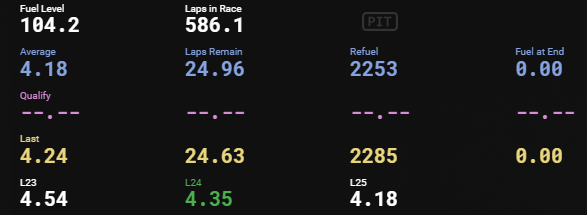
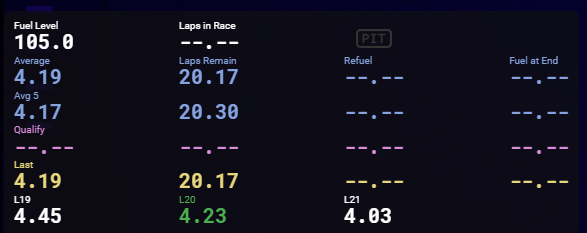
Add Avg 5 row to Fuel Calculator
Simple (non-trimmed) average of fuel usage over the last 5 laps, shown
next to the built-in "Average" row and toggled via a new "Avg 5"
checkbox placed above "Target Laps" in settings.

diff --git a/kapps-country-flags-patch.js b/kapps-country-flags-patch.js
@@ -474,11 +474,72 @@ function patchFuelCalcJs(src) {
     '$scope.showLast=config.showLast,$scope.showTargetLaps=config.showTargetLaps,$scope.showCustom=config.showCustom',
     'fuel-calc.js AppCtrl showTargetLaps scope copy'
   );
+
+  // "Avg 5" row: a SIMPLE (non-trimmed) mean of the last 5 laps, matching irdashies'
+  // calculateSimpleAverage — distinct from Kapps' own "Average" row, which drops the best
+  // and worst lap before averaging. Reuses the SAME rolling 5-lap `fuels` array Kapps already
+  // maintains for that trimmed mean, so no new state tracking is needed — just a second,
+  // simpler reduction over the same data, computed right alongside the existing usageAvg calc.
+  src = mustReplace(
+    src,
+    'fuels.length&&((f=fuels.slice()).length>=3&&(f=f.sort().slice(1,-1)),total=f.reduce((function(a,b){return a+b})),scope.usageAvg=total/f.length)',
+    'fuels.length&&(scope.usageAvg5=fuels.reduce((function(a,b){return a+b}),0)/fuels.length,(f=fuels.slice()).length>=3&&(f=f.sort().slice(1,-1)),total=f.reduce((function(a,b){return a+b})),scope.usageAvg=total/f.length)',
+    'fuel-calc.js usageAvg5 computation'
+  );
+  src = mustReplace(
+    src,
+    'null!=scope.usageQualy&&(scope.remainQualy=curFuelLevel/scope.usageQualy),null!=scope.usageLast&&(scope.remainLast=curFuelLevel/scope.usageLast)',
+    'null!=scope.usageQualy&&(scope.remainQualy=curFuelLevel/scope.usageQualy),null!=scope.usageAvg5&&(scope.remainAvg5=curFuelLevel/scope.usageAvg5),null!=scope.usageLast&&(scope.remainLast=curFuelLevel/scope.usageLast)',
+    'fuel-calc.js remainAvg5 computation'
+  );
+  src = mustReplace(
+    src,
+    'null!=scope.usageQualy&&(scope.refuelQualy=(lapsLeft-scope.remainQualy)*scope.usageQualy,scope.refuelQualy>=1&&(scope.refuelQualy+=.5)),null!=scope.usageLast&&(scope.refuelLast=(lapsLeft-scope.remainLast)*scope.usageLast,scope.refuelLast>=1&&(scope.refuelLast+=.5))',
+    'null!=scope.usageQualy&&(scope.refuelQualy=(lapsLeft-scope.remainQualy)*scope.usageQualy,scope.refuelQualy>=1&&(scope.refuelQualy+=.5)),null!=scope.usageAvg5&&(scope.refuelAvg5=(lapsLeft-scope.remainAvg5)*scope.usageAvg5,scope.refuelAvg5>=1&&(scope.refuelAvg5+=.5)),null!=scope.usageLast&&(scope.refuelLast=(lapsLeft-scope.remainLast)*scope.usageLast,scope.refuelLast>=1&&(scope.refuelLast+=.5))',
+    'fuel-calc.js refuelAvg5 computation'
+  );
+  src = mustReplace(
+    src,
+    'case 0:if(null!=scope.usageAvg&&(scope.extraAvg=scope.refuelAvg-scope.usageAvg),null!=scope.usageQualy&&(scope.extraQualy=scope.refuelQualy-scope.usageQualy),null!=scope.usageLast&&(scope.extraLast=scope.refuelLast-scope.usageLast)',
+    'case 0:if(null!=scope.usageAvg&&(scope.extraAvg=scope.refuelAvg-scope.usageAvg),null!=scope.usageQualy&&(scope.extraQualy=scope.refuelQualy-scope.usageQualy),null!=scope.usageAvg5&&(scope.extraAvg5=scope.refuelAvg5-scope.usageAvg5),null!=scope.usageLast&&(scope.extraLast=scope.refuelLast-scope.usageLast)',
+    'fuel-calc.js extraAvg5 case 0'
+  );
+  src = mustReplace(
+    src,
+    'case 1:if(null!=scope.usageAvg&&(scope.extraAvg=scope.refuelAvg+scope.usageAvg),null!=scope.usageQualy&&(scope.extraQualy=scope.refuelQualy+scope.usageQualy),null!=scope.usageLast&&(scope.extraLast=scope.refuelLast+scope.usageLast)',
+    'case 1:if(null!=scope.usageAvg&&(scope.extraAvg=scope.refuelAvg+scope.usageAvg),null!=scope.usageQualy&&(scope.extraQualy=scope.refuelQualy+scope.usageQualy),null!=scope.usageAvg5&&(scope.extraAvg5=scope.refuelAvg5+scope.usageAvg5),null!=scope.usageLast&&(scope.extraLast=scope.refuelLast+scope.usageLast)',
+    'fuel-calc.js extraAvg5 case 1'
+  );
+  src = mustReplace(
+    src,
+    'null!=scope.usageAvg&&(scope.extraAvg=(scope.remainAvg-lapsLeft)*scope.usageAvg,scope.extraAvg>=-2&&(fuelOnPit=0),scope.extraAvg=Math.max(0,scope.extraAvg+fuelOnPit)),null!=scope.usageQualy&&(scope.extraQualy=Math.max(0,(scope.remainQualy-lapsLeft)*scope.usageQualy+fuelOnPit)),null!=scope.usageLast&&(scope.extraLast=Math.max(0,(scope.remainLast-lapsLeft)*scope.usageLast+fuelOnPit))',
+    'null!=scope.usageAvg&&(scope.extraAvg=(scope.remainAvg-lapsLeft)*scope.usageAvg,scope.extraAvg>=-2&&(fuelOnPit=0),scope.extraAvg=Math.max(0,scope.extraAvg+fuelOnPit)),null!=scope.usageQualy&&(scope.extraQualy=Math.max(0,(scope.remainQualy-lapsLeft)*scope.usageQualy+fuelOnPit)),null!=scope.usageAvg5&&(scope.extraAvg5=Math.max(0,(scope.remainAvg5-lapsLeft)*scope.usageAvg5+fuelOnPit)),null!=scope.usageLast&&(scope.extraLast=Math.max(0,(scope.remainLast-lapsLeft)*scope.usageLast+fuelOnPit))',
+    'fuel-calc.js extraAvg5 case 2'
+  );
+  src = mustReplace(
+    src,
+    'usageAvg:null,usageQualy:null,usageLast:null,usageCustom:null,remainAvg:null,remainQualy:null,remainLast:null,remainCustom:null,refuelAvg:null,refuelQualy:null,refuelLast:null,refuelCustom:null',
+    'usageAvg:null,usageQualy:null,usageAvg5:null,usageLast:null,usageCustom:null,remainAvg:null,remainQualy:null,remainAvg5:null,remainLast:null,remainCustom:null,refuelAvg:null,refuelQualy:null,refuelAvg5:null,refuelLast:null,refuelCustom:null',
+    'fuel-calc.js dataEmpty avg5'
+  );
+  src = mustReplace(
+    src,
+    'extraMode:2,extraAvg:null,extraQualy:null,extraLast:null,extraCustom',
+    'extraMode:2,extraAvg:null,extraQualy:null,extraAvg5:null,extraLast:null,extraCustom',
+    'fuel-calc.js dataEmpty extraAvg5'
+  );
+  src = mustReplace(
+    src,
+    '$scope.showQualy=config.showQualy,$scope.showLast=config.showLast,$scope.showTargetLaps=config.showTargetLaps',
+    '$scope.showQualy=config.showQualy,$scope.showAvg5=config.showAvg5,$scope.showLast=config.showLast,$scope.showTargetLaps=config.showTargetLaps',
+    'fuel-calc.js AppCtrl showAvg5 scope copy'
+  );
+
   return src;
 }
 
 function patchFuelCalcHtml(src) {
-  const newRow =
+  const targetLapsRow =
     '\t\t\t\t<div ng-if="showTargetLaps && fuelCalc.targetLapsA" class="cell target-laps">\r\n' +
     '\t\t\t\t\t<div class="header">L{{ fuelCalc.targetLapsA }}</div>\r\n' +
     '\t\t\t\t\t<div fuel-calc-value="targetFuelA" class="value"></div>\r\n' +
@@ -491,39 +552,105 @@ function patchFuelCalcHtml(src) {
     '\t\t\t\t\t<div class="header">L{{ fuelCalc.targetLapsC }}</div>\r\n' +
     '\t\t\t\t\t<div fuel-calc-value="targetFuelC" class="value"></div>\r\n' +
     '\t\t\t\t</div>\r\n';
-  return mustReplace(
+  src = mustReplace(
     src,
     '\t\t\t\t<div ng-if="showCustom" class="cell custom">\r\n\t\t\t\t\t<div fuel-calc-value="extraCustom" class="value"></div>\r\n\t\t\t\t</div>\r\n\r\n\t\t\t</div>',
-    '\t\t\t\t<div ng-if="showCustom" class="cell custom">\r\n\t\t\t\t\t<div fuel-calc-value="extraCustom" class="value"></div>\r\n\t\t\t\t</div>\r\n\r\n' + newRow + '\r\n\t\t\t</div>',
+    '\t\t\t\t<div ng-if="showCustom" class="cell custom">\r\n\t\t\t\t\t<div fuel-calc-value="extraCustom" class="value"></div>\r\n\t\t\t\t</div>\r\n\r\n' + targetLapsRow + '\r\n\t\t\t</div>',
     'fuel-calc.html target-laps row'
   );
+
+  // "Avg 5" row, placed right after "Average" (before "Qualify") — a natural reading position
+  // since it's directly comparable to Average, just with a different averaging window.
+  const avg5Row =
+    '\t\t\t\t<div ng-if="showAvg5" class="cell avg5">\r\n' +
+    '\t\t\t\t\t<div class="header">Avg 5</div>\r\n' +
+    '\t\t\t\t\t<div fuel-calc-value="usageAvg5" class="value"></div>\r\n' +
+    '\t\t\t\t</div>\r\n' +
+    '\t\t\t\t<div ng-if="showAvg5" class="cell avg5">\r\n' +
+    '\t\t\t\t\t<div fuel-calc-value="remainAvg5" class="value"></div>\r\n' +
+    '\t\t\t\t</div>\r\n' +
+    '\t\t\t\t<div ng-if="showAvg5" class="cell avg5">\r\n' +
+    '\t\t\t\t\t<div fuel-calc-value="refuelAvg5" class="value"></div>\r\n' +
+    '\t\t\t\t</div>\r\n' +
+    '\t\t\t\t<div ng-if="showAvg5" class="cell avg5">\r\n' +
+    '\t\t\t\t\t<div fuel-calc-value="extraAvg5" class="value"></div>\r\n' +
+    '\t\t\t\t</div>\r\n\r\n';
+  src = mustReplace(
+    src,
+    '\t\t\t\t<div class="cell avg">\r\n\t\t\t\t\t<div ng-click="toggleExtraMode()" class="header clickable">\r\n\t\t\t\t\t\t<span ng-if="fuelCalc.extraMode == 0">Refuel -1L</span>\r\n\t\t\t\t\t\t<span ng-if="fuelCalc.extraMode == 1">Refuel +1L</span>\r\n\t\t\t\t\t\t<span ng-if="fuelCalc.extraMode == 2">Fuel at End</span>\r\n\t\t\t\t\t</div>\r\n\t\t\t\t\t<div fuel-calc-value="extraAvg" class="value"></div>\r\n\t\t\t\t</div>\r\n\r\n\t\t\t\t<div ng-if="showQualy" class="cell qualy">',
+    '\t\t\t\t<div class="cell avg">\r\n\t\t\t\t\t<div ng-click="toggleExtraMode()" class="header clickable">\r\n\t\t\t\t\t\t<span ng-if="fuelCalc.extraMode == 0">Refuel -1L</span>\r\n\t\t\t\t\t\t<span ng-if="fuelCalc.extraMode == 1">Refuel +1L</span>\r\n\t\t\t\t\t\t<span ng-if="fuelCalc.extraMode == 2">Fuel at End</span>\r\n\t\t\t\t\t</div>\r\n\t\t\t\t\t<div fuel-calc-value="extraAvg" class="value"></div>\r\n\t\t\t\t</div>\r\n\r\n' + avg5Row + '\t\t\t\t<div ng-if="showQualy" class="cell qualy">',
+    'fuel-calc.html avg5 row'
+  );
+
+  return src;
 }
 
 function patchFuelCalcCss(src) {
   const rule = 'body>#app>.app>.wrap>.cell.target-laps.current{color:#4caf50}';
   if (src.includes(rule)) throw new Error('fuel-calc.css already contains the target-laps rule — patch already applied?');
-  return src + rule;
+  src += rule;
+  // Avg 5 has no dedicated theme color of its own (that would need theme-editor UI changes
+  // well beyond this feature's scope) — reuses Average's color since it's directly related.
+  const avg5Rule = 'body>#app>.app>.wrap>.cell.avg5{color:var(--theme-average-color)}';
+  if (src.includes(avg5Rule)) throw new Error('fuel-calc.css already contains the avg5 rule — patch already applied?');
+  return src + avg5Rule;
 }
 
 // Fuel Calculator's settings panel exists twice — the widget's own standalone settings.html,
 // and an embedded copy inside the main settings window (racing-overlay/settings/fuel-calc.html)
 // — with different indentation levels, so each needs its own anchor text.
 function patchFuelCalcSettingsHtml(src) {
-  return mustReplace(
+  // Target Laps must be inserted BEFORE Avg 5, since Avg 5's anchor ends on the
+  // "<!-- target laps -->" comment that this insertion creates — on a fresh install neither
+  // exists yet, so this ordering is required (not just cosmetic).
+  src = mustReplace(
     src,
     '\t\t\t\t\t<!-- custom -->\r\n\t\t\t\t\t<div class="form-group">\r\n\t\t\t\t\t\t<label for="inputFuelCalcCustom" class="col-sm-3 control-label">Custom</label>',
     '\t\t\t\t\t<!-- target laps -->\r\n\t\t\t\t\t<div class="form-group">\r\n\t\t\t\t\t\t<label for="inputFuelCalcTargetLaps" class="col-sm-3 control-label">Target Laps</label>\r\n\t\t\t\t\t\t<div class="col-sm-9">\r\n\t\t\t\t\t\t\t<div class="checkbox">\r\n\t\t\t\t\t\t\t\t<label>\r\n\t\t\t\t\t\t\t\t\t<input ng-model="settings.showTargetLaps" ng-change="saveSettings()" type="checkbox" id="inputFuelCalcTargetLaps">\r\n\t\t\t\t\t\t\t\t\tShow fuel-per-lap targets for laps around your current average pace\r\n\t\t\t\t\t\t\t\t</label>\r\n\t\t\t\t\t\t\t</div>\r\n\t\t\t\t\t\t</div>\r\n\t\t\t\t\t</div>\r\n\t\t\t\t\t<!-- custom -->\r\n\t\t\t\t\t<div class="form-group">\r\n\t\t\t\t\t\t<label for="inputFuelCalcCustom" class="col-sm-3 control-label">Custom</label>',
     'fuel-calc/settings.html target-laps toggle'
   );
+  src = mustReplace(
+    src,
+    '\t\t\t\t\t\t\t\t\t<input ng-model="settings.showLast" ng-change="saveSettings()" type="checkbox" id="inputFuelCalcLast">\r\n\t\t\t\t\t\t\t\t\tShow last lap fuel usage and calculations\r\n\t\t\t\t\t\t\t\t</label>\r\n\t\t\t\t\t\t\t</div>\r\n\t\t\t\t\t\t</div>\r\n\t\t\t\t\t</div>\r\n\t\t\t\t\t<!-- target laps -->',
+    '\t\t\t\t\t\t\t\t\t<input ng-model="settings.showLast" ng-change="saveSettings()" type="checkbox" id="inputFuelCalcLast">\r\n\t\t\t\t\t\t\t\t\tShow last lap fuel usage and calculations\r\n\t\t\t\t\t\t\t\t</label>\r\n\t\t\t\t\t\t\t</div>\r\n\t\t\t\t\t\t</div>\r\n\t\t\t\t\t</div>\r\n\t\t\t\t\t<!-- avg 5 -->\r\n\t\t\t\t\t<div class="form-group">\r\n\t\t\t\t\t\t<label for="inputFuelCalcAvg5" class="col-sm-3 control-label">Avg 5</label>\r\n\t\t\t\t\t\t<div class="col-sm-9">\r\n\t\t\t\t\t\t\t<div class="checkbox">\r\n\t\t\t\t\t\t\t\t<label>\r\n\t\t\t\t\t\t\t\t\t<input ng-model="settings.showAvg5" ng-change="saveSettings()" type="checkbox" id="inputFuelCalcAvg5">\r\n\t\t\t\t\t\t\t\t\tShow simple average fuel usage and calculations over the last 5 laps\r\n\t\t\t\t\t\t\t\t</label>\r\n\t\t\t\t\t\t\t</div>\r\n\t\t\t\t\t\t</div>\r\n\t\t\t\t\t</div>\r\n\t\t\t\t\t<!-- target laps -->',
+    'fuel-calc/settings.html avg5 toggle'
+  );
+  return src;
 }
 
 function patchRacingOverlayFuelCalcSettingsHtml(src) {
-  return mustReplace(
+  src = mustReplace(
     src,
     '\t\t<!-- custom -->\r\n\t\t<div class="form-group">\r\n\t\t\t<label for="inputFuelCalcCustom" class="col-sm-3 control-label">Custom</label>',
     '\t\t<!-- target laps -->\r\n\t\t<div class="form-group">\r\n\t\t\t<label for="inputFuelCalcTargetLaps" class="col-sm-3 control-label">Target Laps</label>\r\n\t\t\t<div class="col-sm-9">\r\n\t\t\t\t<div class="checkbox">\r\n\t\t\t\t\t<label>\r\n\t\t\t\t\t\t<input ng-model="settings.showTargetLaps" ng-change="saveSettings()" type="checkbox" id="inputFuelCalcTargetLaps">\r\n\t\t\t\t\t\tShow fuel-per-lap targets for laps around your current average pace\r\n\t\t\t\t\t</label>\r\n\t\t\t\t</div>\r\n\t\t\t</div>\r\n\t\t</div>\r\n\t\t<!-- custom -->\r\n\t\t<div class="form-group">\r\n\t\t\t<label for="inputFuelCalcCustom" class="col-sm-3 control-label">Custom</label>',
     'racing-overlay/settings/fuel-calc.html target-laps toggle'
   );
+  src = mustReplace(
+    src,
+    '\t\t\t\t\t\t<input ng-model="settings.showLast" ng-change="saveSettings()" type="checkbox" id="inputFuelCalcLast">\r\n\t\t\t\t\t\tShow last lap fuel usage and calculations\r\n\t\t\t\t\t</label>\r\n\t\t\t\t</div>\r\n\t\t\t</div>\r\n\t\t</div>\r\n\t\t<!-- target laps -->',
+    '\t\t\t\t\t\t<input ng-model="settings.showLast" ng-change="saveSettings()" type="checkbox" id="inputFuelCalcLast">\r\n\t\t\t\t\t\tShow last lap fuel usage and calculations\r\n\t\t\t\t\t</label>\r\n\t\t\t\t</div>\r\n\t\t\t</div>\r\n\t\t</div>\r\n\t\t<!-- avg 5 -->\r\n\t\t<div class="form-group">\r\n\t\t\t<label for="inputFuelCalcAvg5" class="col-sm-3 control-label">Avg 5</label>\r\n\t\t\t<div class="col-sm-9">\r\n\t\t\t\t<div class="checkbox">\r\n\t\t\t\t\t<label>\r\n\t\t\t\t\t\t<input ng-model="settings.showAvg5" ng-change="saveSettings()" type="checkbox" id="inputFuelCalcAvg5">\r\n\t\t\t\t\t\tShow simple average fuel usage and calculations over the last 5 laps\r\n\t\t\t\t\t</label>\r\n\t\t\t\t</div>\r\n\t\t\t</div>\r\n\t\t</div>\r\n\t\t<!-- target laps -->',
+    'racing-overlay/settings/fuel-calc.html avg5 toggle'
+  );
+  return src;
+}
+
+function patchAvg5SharedSettings(src, label) {
+  // Must run AFTER patchTargetLapsSharedSettings — inserts showAvg5 between showLast and
+  // showTargetLaps, so it needs the post-target-laps-patch anchor text.
+  const A_from = 'showQualy:!0,showLast:!1,showTargetLaps:!1,showCustom:!1,showClock:!1,clockStyle:"24",hideClockWhenInMulticlass:!0';
+  const A_to = 'showQualy:!0,showLast:!1,showAvg5:!1,showTargetLaps:!1,showCustom:!1,showClock:!1,clockStyle:"24",hideClockWhenInMulticlass:!0';
+  const B_from = '"showQualy","showLast","showTargetLaps","showCustom","showClock","clockStyle","hideClockWhenInMulticlass"';
+  const B_to = '"showQualy","showLast","showAvg5","showTargetLaps","showCustom","showClock","clockStyle","hideClockWhenInMulticlass"';
+
+  const countA = src.split(A_from).length - 1;
+  if (countA < 1) throw new Error(`Expected at least 1 occurrence of the ${label} fuelCalc defaultSettings anchor (avg5), found 0. This Kapps version's code doesn't match what this patch expects — aborting without changing anything.`);
+  src = src.split(A_from).join(A_to);
+
+  const countB = src.split(B_from).length - 1;
+  if (countB < 1) throw new Error(`Expected at least 1 occurrence of the ${label} fuelCalc urlKeys anchor (avg5), found 0. This Kapps version's code doesn't match what this patch expects — aborting without changing anything.`);
+  src = src.split(B_from).join(B_to);
+
+  return src;
 }
 
 // index.js is Kapps' actual Electron main process (window creation, opening layers) — a
@@ -669,15 +796,21 @@ function main() {
   // chained into either) — a pre-existing gap independent of today's Fastest Lap/target-laps
   // work, fixed here alongside it.
   files[paths.worker] = Buffer.from(
-    patchTargetLapsSharedSettings(
-      patchRelativesSharedSettings(patchWorkerFastestLap(patchWorker(files[paths.worker].toString('utf8'))), 'worker.js'),
+    patchAvg5SharedSettings(
+      patchTargetLapsSharedSettings(
+        patchRelativesSharedSettings(patchWorkerFastestLap(patchWorker(files[paths.worker].toString('utf8'))), 'worker.js'),
+        'worker.js'
+      ),
       'worker.js'
     ),
     'utf8'
   );
   files[paths.standingsJs] = Buffer.from(
-    patchTargetLapsSharedSettings(
-      patchRelativesSharedSettings(patchStandingsJsFastestLap(patchStandingsJs(files[paths.standingsJs].toString('utf8'))), 'standings.js'),
+    patchAvg5SharedSettings(
+      patchTargetLapsSharedSettings(
+        patchRelativesSharedSettings(patchStandingsJsFastestLap(patchStandingsJs(files[paths.standingsJs].toString('utf8'))), 'standings.js'),
+        'standings.js'
+      ),
       'standings.js'
     ),
     'utf8'
@@ -688,31 +821,51 @@ function main() {
   // driver.columns/showCountryFlag for anything itself, but the webpack bundle embeds a copy
   // regardless) — was never getting patchDefaultColumns/patchRelativesSharedSettings either.
   files[paths.settingsJs] = Buffer.from(
-    patchTargetLapsSharedSettings(
-      patchRelativesSharedSettings(patchDefaultColumns(patchSettingsJsFastestLap(patchSettingsJs(files[paths.settingsJs].toString('utf8'))), 'settings.js'), 'settings.js'),
+    patchAvg5SharedSettings(
+      patchTargetLapsSharedSettings(
+        patchRelativesSharedSettings(patchDefaultColumns(patchSettingsJsFastestLap(patchSettingsJs(files[paths.settingsJs].toString('utf8'))), 'settings.js'), 'settings.js'),
+        'settings.js'
+      ),
       'settings.js'
     ),
     'utf8'
   );
   files[paths.settingsCss] = Buffer.from(patchSettingsCssFastestLap(patchSettingsCss(files[paths.settingsCss].toString('utf8'))), 'utf8');
   files[paths.racingOverlay] = Buffer.from(
-    patchTargetLapsSharedSettings(patchDefaultColumns(patchRelativesSharedSettings(files[paths.racingOverlay].toString('utf8'), 'racing-overlay.js'), 'racing-overlay.js'), 'racing-overlay.js'),
+    patchAvg5SharedSettings(
+      patchTargetLapsSharedSettings(patchDefaultColumns(patchRelativesSharedSettings(files[paths.racingOverlay].toString('utf8'), 'racing-overlay.js'), 'racing-overlay.js'), 'racing-overlay.js'),
+      'racing-overlay.js'
+    ),
     'utf8'
   );
   files[paths.mainProcess] = Buffer.from(
-    patchTargetLapsSharedSettings(patchRelativesSharedSettings(patchMainProcessJs(files[paths.mainProcess].toString('utf8')), 'index.js'), 'index.js'),
+    patchAvg5SharedSettings(
+      patchTargetLapsSharedSettings(patchRelativesSharedSettings(patchMainProcessJs(files[paths.mainProcess].toString('utf8')), 'index.js'), 'index.js'),
+      'index.js'
+    ),
     'utf8'
   );
   files[paths.appJs] = Buffer.from(
-    patchTargetLapsSharedSettings(patchRelativesSharedSettings(files[paths.appJs].toString('utf8'), 'app.js'), 'app.js'),
+    patchAvg5SharedSettings(
+      patchTargetLapsSharedSettings(patchRelativesSharedSettings(files[paths.appJs].toString('utf8'), 'app.js'), 'app.js'),
+      'app.js'
+    ),
     'utf8'
   );
   files[paths.fuelCalcJs] = Buffer.from(
-    patchFuelCalcJs(patchTargetLapsSharedSettings(patchRelativesSharedSettings(files[paths.fuelCalcJs].toString('utf8'), 'fuel-calc.js'), 'fuel-calc.js')),
+    patchFuelCalcJs(
+      patchAvg5SharedSettings(
+        patchTargetLapsSharedSettings(patchRelativesSharedSettings(files[paths.fuelCalcJs].toString('utf8'), 'fuel-calc.js'), 'fuel-calc.js'),
+        'fuel-calc.js'
+      )
+    ),
     'utf8'
   );
   files[paths.relativesJs] = Buffer.from(
-    patchTargetLapsSharedSettings(patchRelativesJs(files[paths.relativesJs].toString('utf8')), 'relatives.js'),
+    patchAvg5SharedSettings(
+      patchTargetLapsSharedSettings(patchRelativesJs(files[paths.relativesJs].toString('utf8')), 'relatives.js'),
+      'relatives.js'
+    ),
     'utf8'
   );
   files[paths.relativesIndexHtml] = Buffer.from(patchRelativesIndexHtml(files[paths.relativesIndexHtml].toString('utf8')), 'utf8');
@@ -731,6 +884,7 @@ function main() {
     content = patchDefaultColumns(content, p);
     content = patchRelativesSharedSettings(content, p);
     content = patchTargetLapsSharedSettings(content, p);
+    content = patchAvg5SharedSettings(content, p);
     files[p] = Buffer.from(content, 'utf8');
   }
 

diff --git a/README.md b/README.md
@@ -5,6 +5,7 @@ A community patch for [Kapps](https://kapps.kutu.ru), the iRacing overlay app wh
 - **Country flags** next to each driver in **Standings** and **Relatives**
 - A **Fastest Lap column** in **Standings**, highlighting whoever holds the fastest lap within their own class
 - A **Target Laps** row in the **Fuel Calculator**, showing the fuel-per-lap needed for a couple of laps around your current pace
+- An **Avg 5** row in the **Fuel Calculator**, showing a simple average of your fuel usage over the last 5 laps
 
 ## Country flags
 
@@ -37,11 +38,16 @@ Whichever driver currently holds the fastest lap **within their own class** (GT3
 
 ![Standings with the Fastest Lap column, one driver highlighted purple](images/live-standings-fastest-lap.png)
 
-## Target Laps (Fuel Calculator)
+## Target Laps and Avg 5 (Fuel Calculator)
 
-A new row at the bottom of the Fuel Calculator overlay showing the fuel-per-lap needed for the lap you're on pace for, plus one lap on either side — so you can see at a glance what adjusting your pace by a lap or two would cost or save in fuel. Toggled on via a new "Target Laps" checkbox in the Fuel Calculator's settings, placed above "Custom".
+Two new rows in the Fuel Calculator overlay:
 
-![Fuel Calculator with the Target Laps row](images/fuel-target.png)
+- **Target Laps**, at the bottom of the overlay, shows the fuel-per-lap needed for the lap you're on pace for, plus one lap on either side — so you can see at a glance what adjusting your pace by a lap or two would cost or save in fuel. Toggled on via a "Target Laps" checkbox in the Fuel Calculator's settings, placed above "Custom".
+- **Avg 5**, next to the built-in "Average" row, is a simple (non-trimmed) average of your fuel usage over the last 5 laps — useful right after a pace change, when Kapps' own trimmed-average "Average" row is still catching up. Toggled on via an "Avg 5" checkbox, placed above "Target Laps".
+
+![Fuel Calculator with the Avg 5 row and Target Laps row](images/fuel-target.png)
+
+![Fuel Calculator settings showing the Avg 5 and Target Laps checkboxes](images/fuel-settings.png)
 
 ## How it works
 
@@ -59,7 +65,7 @@ This script modifies a file inside your own local Kapps installation. It is not 
 2. Download `apply-country-flags-patch.bat` and `kapps-country-flags-patch.js` and put them **in the same folder** together (anywhere — Desktop, Downloads, wherever).
 3. Double-click `apply-country-flags-patch.bat`.
 4. It will locate your Kapps install automatically, back up the original file, and apply the patch. Follow the on-screen prompts.
-5. Relaunch Kapps. Open the Standings overlay during a session to see flags; open Standings' settings → Driver tab to see the draggable `Country Flag` and `Fastest Lap` columns. For Relatives, open its settings page and enable the new "Country Flag" checkbox (found right after "Car Number"). For the Fuel Calculator, open its settings and enable "Target Laps" (found above "Custom").
+5. Relaunch Kapps. Open the Standings overlay during a session to see flags; open Standings' settings → Driver tab to see the draggable `Country Flag` and `Fastest Lap` columns. For Relatives, open its settings page and enable the new "Country Flag" checkbox (found right after "Car Number"). For the Fuel Calculator, open its settings and enable "Avg 5" and/or "Target Laps" (found above "Custom").
 
 ### Running it manually instead of the `.bat`
 